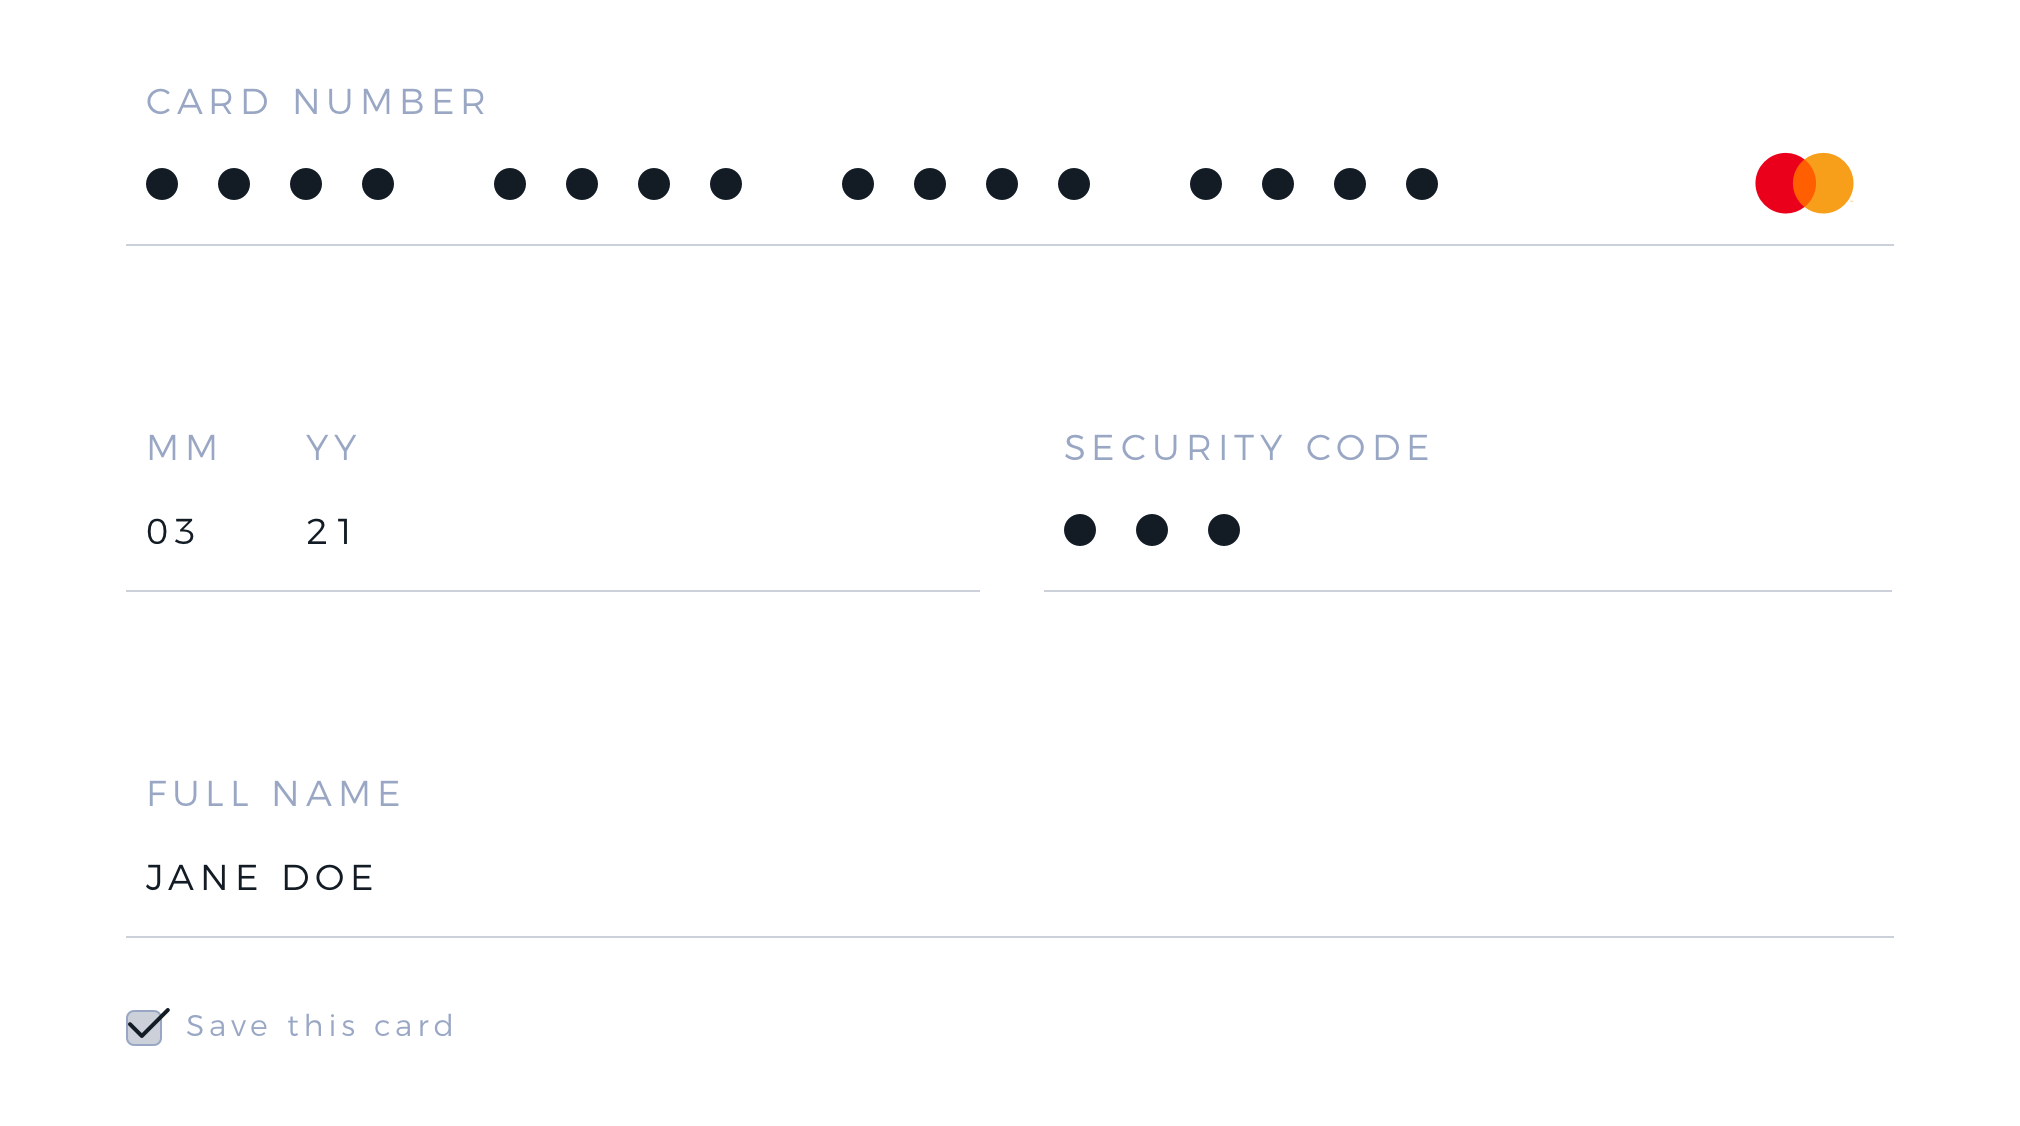
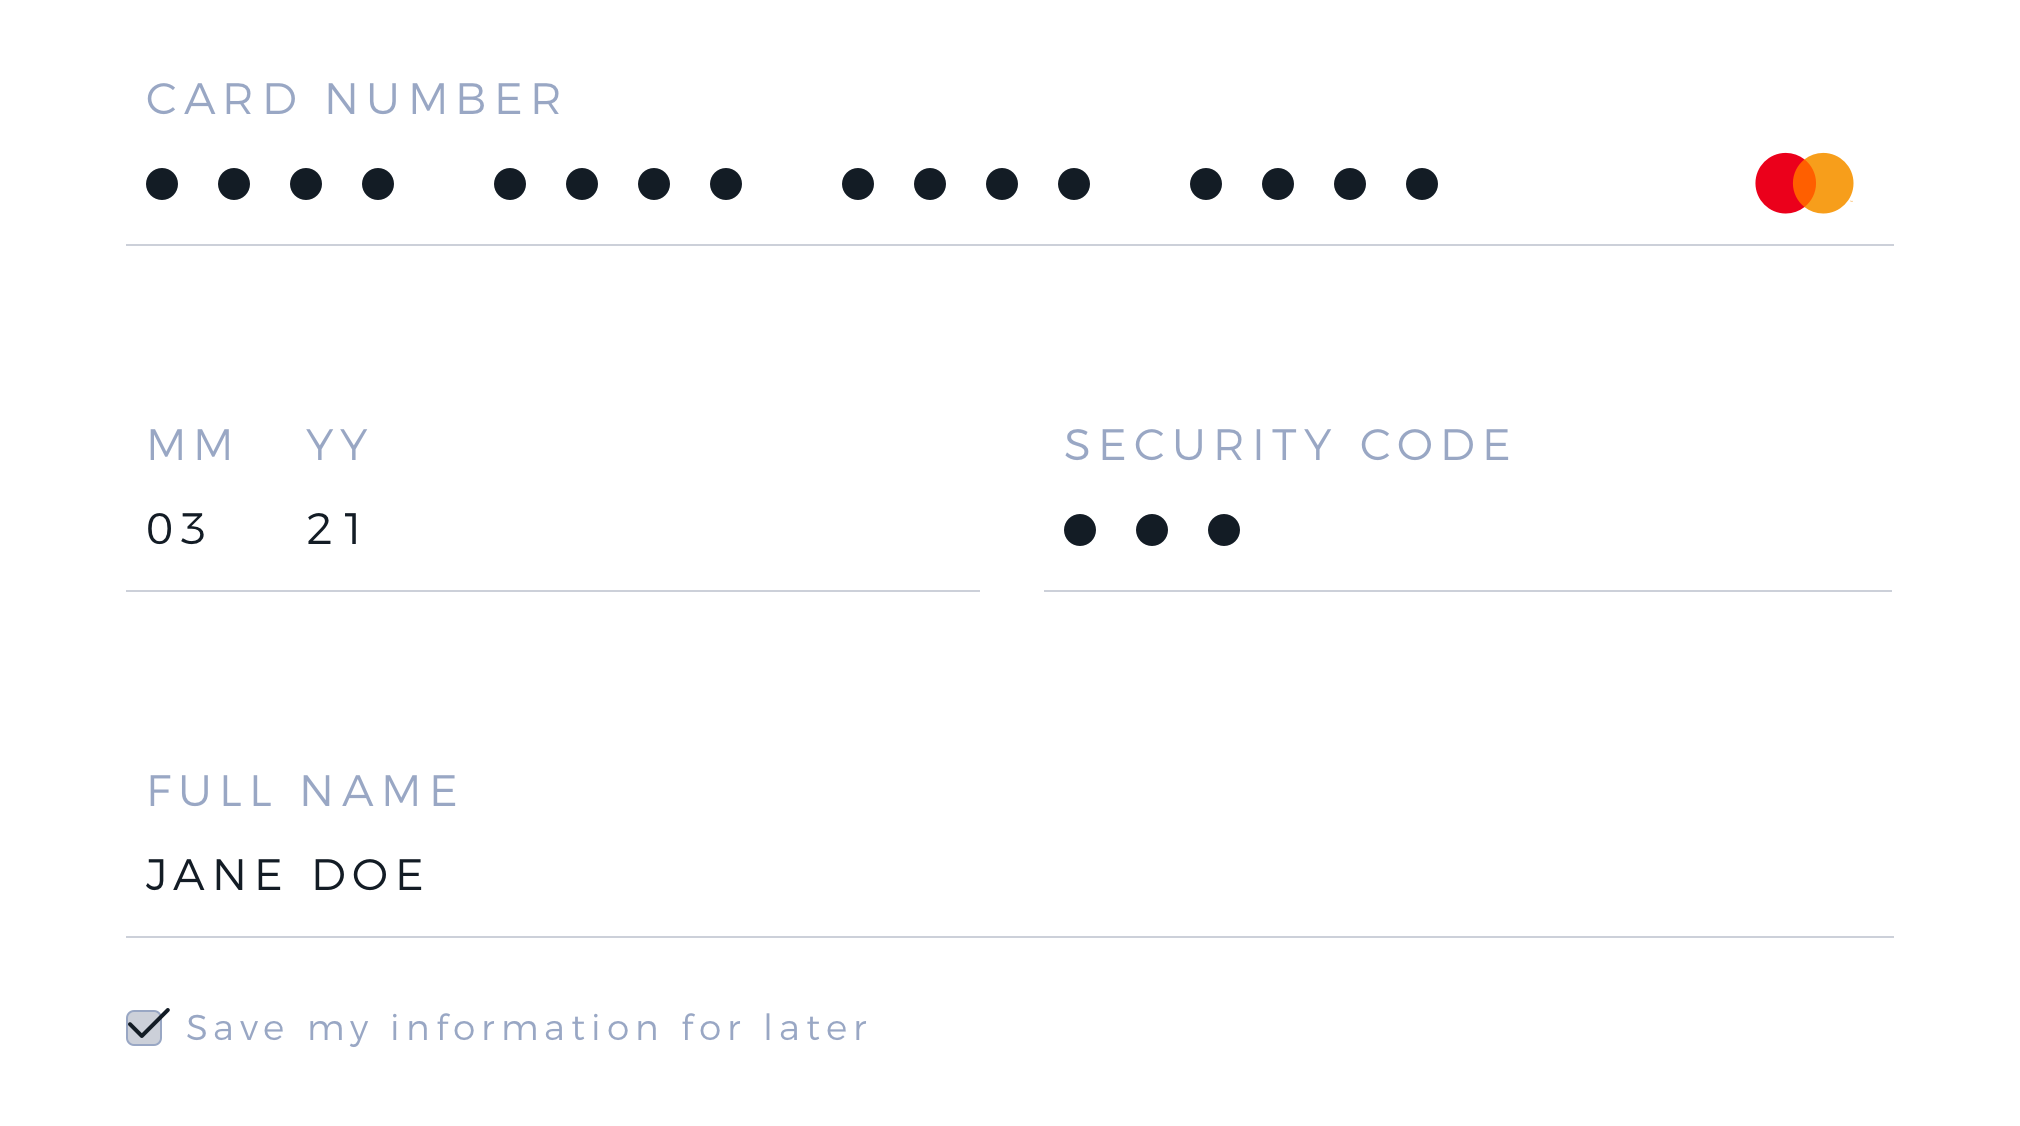
payment page

diff --git a/src/components/Payment.js b/src/components/Payment.js
@@ -49,8 +49,8 @@ class Payment extends React.Component {
         totalPrice += energyShotPrice;
       }
       energyShotLine = (
-        <p>
-          {energyShot}: {energyShotPrice}€
+        <p className="card-text">
+          {energyShot.toUpperCase()}: {energyShotPrice}€
         </p>
       );
     }
@@ -58,24 +58,38 @@ class Payment extends React.Component {
     return (
       <section className="payment-sec">
         <h2 align="center">Payment</h2>
-        <img
-          className="payment-img"
-          src="../../images/napply-payment.png"
-          alt="payment"
-        />
 
-        <div className="prices">
-          <h3>Receipt</h3>
-          <p>Nap: {napPrice}€</p>
-          {energyShotLine}
-          <p>Total Price: {totalPrice}€</p>
+        <div className="payment-section">
+          <div className="payment-pic">
+            <img
+              className="payment-img"
+              src="../../images/napply-payment.png"
+              alt="payment"
+            />
+          </div>
+
+          <div className="prices card">
+            <div className="card-header bg-transparent">
+              <h3>YOUR ORDER</h3>
+            </div>
+            <div className="card-body">
+              <p className="card-text">NAP: {napPrice}€</p>
+              <p className="card-text">{energyShotLine}</p>
+            </div>
+            <div className="card-footer bg-transparent">
+              <p className="card-total">
+                <p className="order-total">ORDER TOTAL</p>
+                <p className="card-text">{totalPrice}€</p>
+              </p>
+            </div>
+          </div>
         </div>
 
         <button
           className="btn btn-outline-primary btn-sign"
           onClick={event => this.handleSubmit(event)}
         >
-          Pay Now
+          Buy Now
         </button>
       </section>
     );

diff --git a/src/App.css b/src/App.css
@@ -1,7 +1,7 @@
 body {
   left: 0;
   top: 0;
-  font-family: "Roboto", sans-serif;
+  font-family: "Montserrat", sans-serif;
 }
 
 /* >>>>>>>> HEADER <<<<<<< */
@@ -336,12 +336,62 @@ div.card.concept-card {
 
 .payment-sec {
   text-align: center;
+}
+
+.payment-sec h2 {
+  margin-bottom: 30px;
+}
+
+.payment-section {
+  text-align: center;
   display: flex;
   align-items: center;
-  flex-direction: column;
+  justify-content: space-around;
+  margin-bottom: 30px;
+}
+
+.payment-pic {
+  width: 675px;
 }
 
 .payment-img {
-  width: 60%;
+  width: 110%;
   margin-bottom: 20px;
+}
+
+.prices.card {
+  border-style: none;
+  width: 300px;
+}
+
+.card-header {
+  margin-bottom: 12px;
+}
+
+.card-header h3 {
+  text-align: left;
+  letter-spacing: 5px;
+  font-size: 16px;
+  color: #99a7c4;
+}
+
+.card-text {
+  font-size: 16px;
+  letter-spacing: 3px;
+  text-align: left;
+}
+
+.card-total {
+  letter-spacing: 6px;
+  font-size: 16px;
+}
+
+.order-total {
+  color: #99a7c4;
+  text-align: left;
+}
+
+.card-total .card-text {
+  font-weight: bold;
+  font-size: 28px;
 }

diff --git a/public/index.html b/public/index.html
@@ -14,7 +14,7 @@
     crossorigin="anonymous">
   <link rel="stylesheet" href="https://use.fontawesome.com/releases/v5.3.1/css/all.css" integrity="sha384-mzrmE5qonljUremFsqc01SB46JvROS7bZs3IO2EmfFsd15uHvIt+Y8vEf7N7fWAU"
     crossorigin="anonymous">
-  <link href="https://fonts.googleapis.com/css?family=Roboto|Sacramento" rel="stylesheet">
+  <link href="https://fonts.googleapis.com/css?family=Montserrat:300,400|Sacramento" rel="stylesheet">
   <link rel="shortcut icon" href="%PUBLIC_URL%/favicon.ico">
   <!--
       Notice the use of %PUBLIC_URL% in the tags above.
